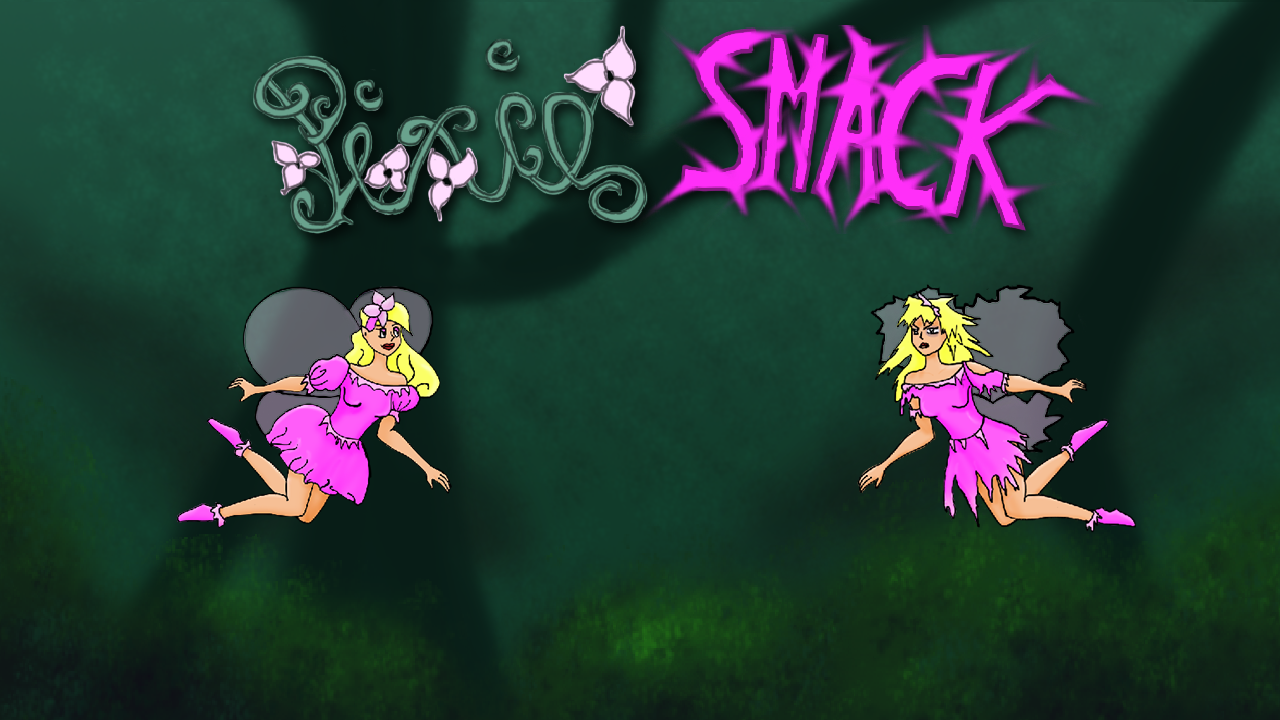
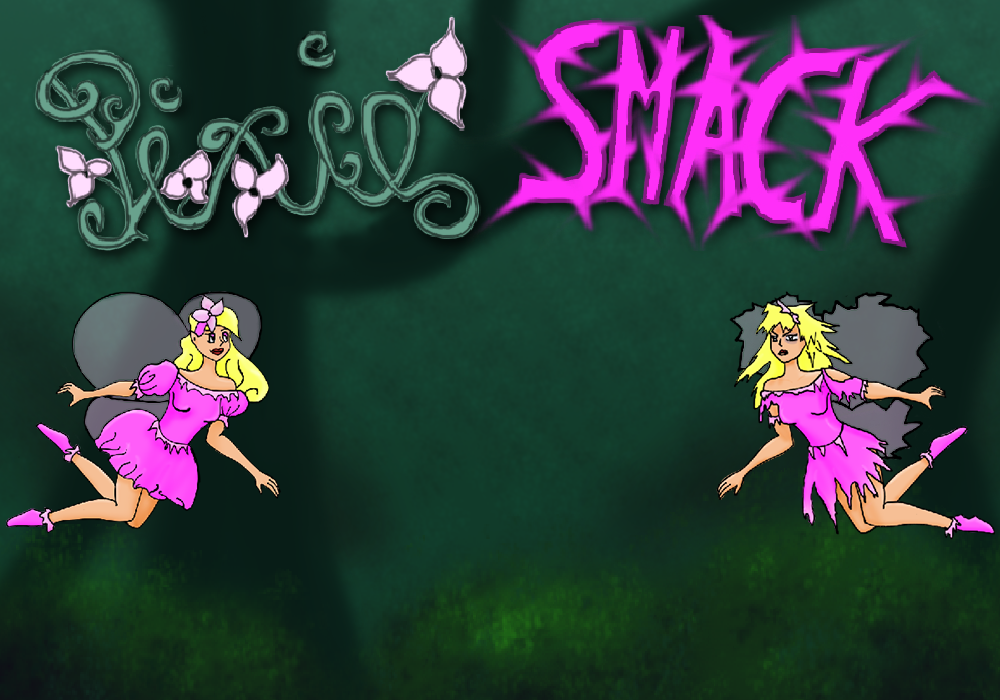
Menüanpassung

diff --git a/core/src/at/aau/game/screens/MenuScreen.java b/core/src/at/aau/game/screens/MenuScreen.java
@@ -28,7 +28,7 @@ public class MenuScreen extends ScreenAdapter {
 	String[] menuStrings = { GameConstants.NEW_GAME, GameConstants.RESUME_GAME, "Hall Of Fame", "Credits", "Exit" };
 	int currentMenuItem = 0;
 
-	float offsetLeft = PixieSmack.MENU_GAME_WIDTH / 3, offsetTop = PixieSmack.MENU_GAME_WIDTH / 4, offsetY = PixieSmack.MENU_GAME_HEIGHT / 8;
+	float offsetLeft = PixieSmack.MENU_GAME_WIDTH / 3.8f, offsetTop = PixieSmack.MENU_GAME_WIDTH / 4, offsetY = PixieSmack.MENU_GAME_HEIGHT / 8;
 
 	public MenuScreen(PixieSmack game) {
 		this.parentGame = game;
